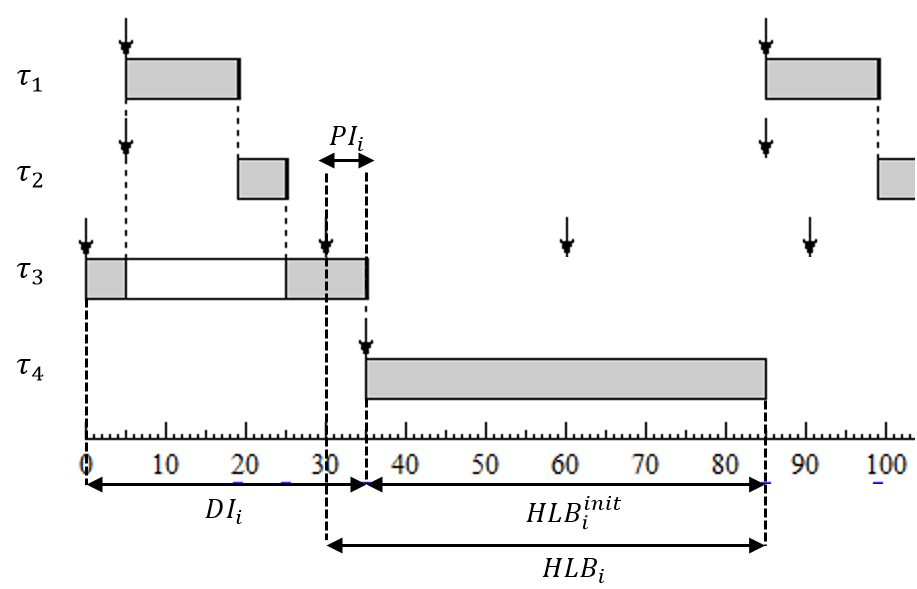
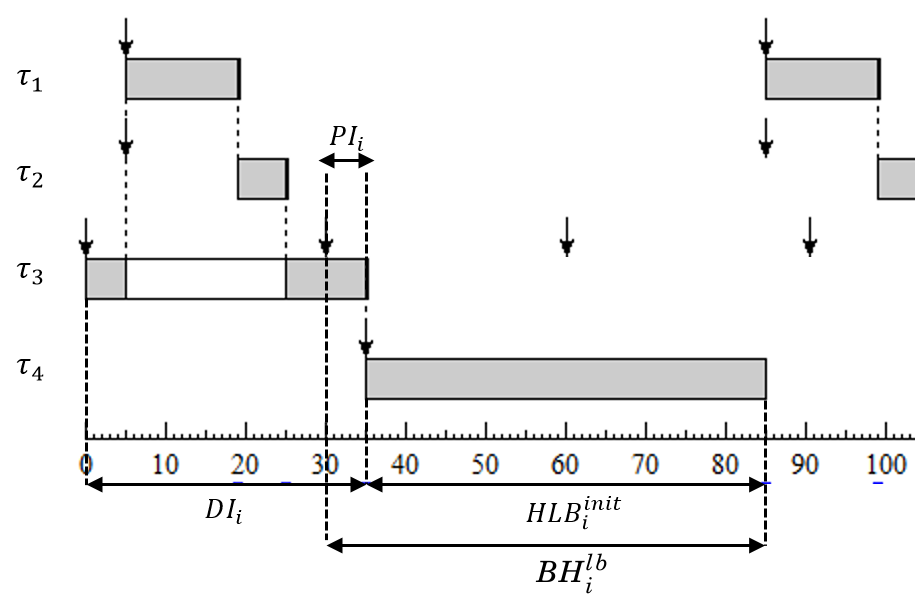
Added small changes to proofs and twoards bcrt document.

diff --git a/proofs/proofs.tex b/proofs/proofs.tex
@@ -104,7 +104,7 @@
 %\end{lemma}
 
 \begin{lemma}
-	Given a task-set $\mathpzc{T}$ of $n$ independent tasks scheduled using FPTS, and a level-$n$ busy period $[t_s,t_f]$ of such a schedule. If for a new task-set $\mathpzc{T} \cup \{\tau_{n+1}\}$, the phase of $\tau_{n+1}$ is selected in such a way that a job $k$ of $\tau_{n+1}$ is scheduled in an interval $[t_1,t_s)$, where there is an amount of time $C_{n+1}$ available for the execution of $\tau_{n+1}$, then the schedule of all jobs in $[t_s,t_f)$ remains the same after introducing $\tau_{n+1}$.
+	Given a task-set $\mathpzc{T}$ of $n$ independent tasks scheduled using FPTS, and a level-$n$ busy period $[t_s,t_f]$ of such a schedule. If for a new task-set $\mathpzc{T} \cup \{\tau_{n+1}\}$, the phase of $\tau_{n+1}$ is selected in such a way that a job $k$ of $\tau_{n+1}$ is scheduled in an interval $[t_1,t_s)$ where there is an amount of time $C_{n+1}$ available for the execution of $\tau_{n+1}$, and job $k$ does not experience blocking by previous jobs of $\tau_{n+1}$, then the schedule of all jobs in $[t_s,t_f)$ remains the same after introducing $\tau_{n+1}$.
 \end{lemma}
 
 %\begin{proof}
@@ -116,7 +116,7 @@
 \begin{proof}
 	Assume a level-$n$ busy period $[t_s,t_f]$ for task-set $\mathpzc{T}$, and also assume that task $\tau_{n+1}$ is scheduled in such a way that a job $k$ of $\tau_{n+1}$ occurs in the interval $[t_1,t_s)$ as described in Lemma 1. We now show that, under this condition, the schedule in the interval $[t_s,t_f)$ remains the same after introducing $\tau_{n+1}$.
 	
-	After introducing $\tau_{n+1}$, the schedule in $[t_s,t_f)$ can be affected by any blocking introduced by the job $k$ of $\tau_{n+1}$, by any of its previous jobs $k_{prev}$ with $k_{prev} < k$, or by any later job $k_{post}$ of $\tau_{n+1}$ with $k_{post} > k$. Since we assumed that job $k$ of $\tau_{n+1}$ occurs in $[t_1,t_s)$ and there is enough time available in this interval for its execution, then it can finalize before $t_s$ without inducing blocking to the jobs in $[t_s,t_f)$; hence, this job does not affect the schedule in $[t_s,t_f)$. Furthermore, any previous job $k_{prev}$ of $\tau_{n+1}$ should has finished before job $k$; hence, it will not affect the schedule in $[t_s,t_f)$ either. Finally, any job $k_{post}$ of $\tau_{n+1}$ should start after job $k$; however, it cannot start in the interval $[f_{n+1,k},t_f)$ because there is no idle time available for $\tau_{n+1}$. Therefore, the start time of any job $k_{post}$ of $\tau_{n+1}$ will occur after $[t_s,t_f)$, and, as a result, it will not affect the schedule in $[t_s,t_f)$.
+	After introducing $\tau_{n+1}$, the schedule in $[t_s,t_f)$ can be affected by any blocking introduced by the job $k$ of $\tau_{n+1}$, or by any later job $k_{post}$ of $\tau_{n+1}$ with $k_{post} > k$. Recall that we assumed that job $k$ of $\tau_{n+1}$ occurs in $[t_1,t_s)$, and it does not experience blocking by previous jobs; furthermore, there is enough time available in this interval for its execution. Hence, this job can finalize before $t_s$ without inducing blocking to the jobs in $[t_s,t_f)$, and therefore it will not affect the schedule in $[t_s,t_f)$. Finally, any job $k_{post}$ of $\tau_{n+1}$ should start after job $k$; however, it cannot start in the interval $[f_{n+1,k},t_f)$ because there is no idle time available for $\tau_{n+1}$. Therefore, the start time of any job $k_{post}$ of $\tau_{n+1}$ will be after or at time $t_f$. As a result, it will not affect the schedule in $[t_s,t_f)$.
 \end{proof}
 
 %\begin{lemma}
@@ -124,7 +124,7 @@
 %\end{lemma}
 
 \begin{lemma}
-	Given a task-set $\mathpzc{T}$ of $n$ independent tasks scheduled under FPTS, a level-$n$ busy period $[t_s,t_f]$ of such a schedule, and a new task-set $\mathpzc{T} \cup \{\tau_{n+1}\}$ where $U^{\mathpzc{T} \cup \tau_{n+1}}<1$ or $U^{\mathpzc{T} \cup \tau_{n+1}} = 1$ and the lcm of the periods exists. It is always possible for task-set $\mathpzc{T} \cup \{\tau_{n+1}\}$ to select the phase of $\tau_{n+1}$ in such a way that a job $k$ of $\tau_{n+1}$ is scheduled in an interval $[t_1,t_s)$, where there is an amount of time $C_{n+1}$ available for the execution of $\tau_{n+1}$.
+	Given a task-set $\mathpzc{T}$ of $n$ independent tasks scheduled under FPTS, a level-$n$ busy period $[t_s,t_f]$ of such a schedule, and a new task-set $\mathpzc{T} \cup \{\tau_{n+1}\}$ where $U^{\mathpzc{T} \cup \tau_{n+1}}<1$ or $U^{\mathpzc{T} \cup \tau_{n+1}} = 1$ and the lcm of the periods exists. It is always possible for task-set $\mathpzc{T} \cup \{\tau_{n+1}\}$ to select the phase of $\tau_{n+1}$ in such a way that a job $k$ of $\tau_{n+1}$ is scheduled in an interval $[t_1,t_s)$ where there is an amount of time $C_{n+1}$ available for the execution of $\tau_{n+1}$, and job $k$ does not experience blocking by previous jobs of $\tau_{n+1}$.
 \end{lemma}
 
 \begin{proof}
@@ -140,7 +140,7 @@
 \end{lemma}
 
 \begin{proof}
-	Assume that we find a schedule for a subset of task-set $\mathpzc{T}$ defined as $\mathpzc{T}_i = \{\tau_a | a \leq i, \tau_a \in \mathpzc{T}\}$ where the \textit{best-case response time} $BR_i$ of $\tau_i$ is assumed by job $k^{bcrt}$ in the level-$i$ busy period $[t_{s},t_{f}]$. Note that task-set $\mathpzc{T}_i$ contains the same tasks as $\mathpzc{T}$ without the lower priority tasks of $\tau_i$. Given Lemmas 1 and 2, we can construct a schedule for a task-set $\mathpzc{T}_{i+1}$ where task $\tau_{i+1}$ is scheduled in such a way that a job $k$ occurs in a contingent time interval $[t_1, t_s)$ before $[t_s,t_f)$. Hence, the schedule in time interval $[t_s,t_f)$ will remain unchanged and the \textit{best-case response time} $BR_i$ of $\tau_i$ will remain the same in $\mathpzc{T}_{i+1}$. Furthermore, note that since job $k$ of $\tau_{i+1}$ occurs in a contingent time interval $[t_1, t_s)$ before $[t_s,t_f)$, these two time intervals are contained in the level-$\{i+1\}$ busy period $[t\prime_s,t\prime_f]$; hence, job $k^{bcrt}$ of $\tau_i$ occurs in $[t\prime_s,t\prime_f]$ as well. Based on this observation and using Lemmas 1 and 2 again, we can find a schedule for a task-set $\mathpzc{T}_{i+2}$ where the jobs in the  level-$\{i+1\}$ busy period $[t\prime_s,t\prime_f]$ remain unchanged and, therefore, $BR_i$ is preserved. Since we can continue constructing schedules preserving the \textit{best-case response time} of $\tau_i$ until $\mathpzc{T}_{i+l} = \mathpzc{T}$, we conclude that the \textit{best-case response time} $BR_i$ of a task $\tau_i$ is not affected by its lower priority tasks.
+	Assume that we find a schedule for a subset of task-set $\mathpzc{T}$ defined as $\mathpzc{T}_i = \{\tau_a | a \leq i, \tau_a \in \mathpzc{T}\}$ where the \textit{best-case response time} $BR_i$ of $\tau_i$ is assumed by job $k^{bcrt}$ in the level-$i$ busy period $[t_{s},t_{f}]$. Note that task-set $\mathpzc{T}_i$ contains the same tasks as $\mathpzc{T}$ without the lower priority tasks of $\tau_i$. Given lemmas 1 and 2, we can construct a schedule for a task-set $\mathpzc{T}_{i+1}$ where task $\tau_{i+1}$ is scheduled in such a way that a job $k$ occurs in a contingent time interval $[t_1, t_s)$ before $[t_s,t_f)$. Hence, the schedule in time interval $[t_s,t_f)$ will remain unchanged and the \textit{best-case response time} $BR_i$ of $\tau_i$ will remain the same in $\mathpzc{T}_{i+1}$. Furthermore, note that since job $k$ of $\tau_{i+1}$ occurs in a contingent time interval $[t_1, t_s)$ before $[t_s,t_f)$, these two time intervals are contained in the level-$\{i+1\}$ busy period $[t\prime_s,t\prime_f]$; hence, job $k^{bcrt}$ of $\tau_i$ occurs in $[t\prime_s,t\prime_f]$ as well. Based on this observation and using lemmas 1 and 2 again, we can find a schedule for a task-set $\mathpzc{T}_{i+2}$ where the jobs in the  level-$\{i+1\}$ busy period $[t\prime_s,t\prime_f]$ remain unchanged and, therefore, $BR_i$ is preserved. Since we can continue constructing schedules preserving the \textit{best-case response time} of $\tau_i$ until $\mathpzc{T}_{i+l} = \mathpzc{T}$, we conclude that the \textit{best-case response time} $BR_i$ of a task $\tau_i$ is not affected by its lower priority tasks.
 \end{proof}
 
 %\begin{proof}
@@ -163,126 +163,7 @@
 
 \begin{thebibliography}{10}
 	
-	\bibitem{WS99}
-	Y. Wang, and M. Saksena.
-	Scheduling fixed-priority tasks with preemption thresholds.
-	In Proc. 6th International Conference on Real-Time Computing Systems and Applications (RTCSA), December 1999.	
-	
-	\bibitem{BHKL12}
-	R.J. Bril, M. van den Heuvel, U. Keskin, and J. Lukkien.
-	Generalized fixed-priority scheduling with preemption thresholds.
-	In Proc. 24th Euromicro Conference on Real-Time Systems (ECRTS), July 2012.
-	
-	\bibitem{BHL13}
-	R.J. Bril, M.M.H.P. v.d. Heuvel, and J.J. Lukkien.
-	Improved feasibility of fixed-priority scheduling with deferred preemption using preemption thresholds for preemption points.
-	In Proc. 21st International Conference on Real-Time Networks and Systems (RTNS), ACM, pp. 225-264, October 2013.
-	
-	\bibitem{BFV08}
-	R.J. Bril, G. Fohler, and W.F.J. Verhaegh. 
-	Execution times and execution jitter of real-time tasks under fixed-priority preemptive scheduling. 
-	Technical Report CSR 08-27, TU/e, The Netherlands, Oct. 2008. \url{http://www.win.tue.nl/~mholende/cantata/publications/BCG-WiP-ECRTS09-final.pdf}
-	
-	\bibitem{BLM13}
-	R.J. Bril, J.J. Lukkien, and R.H. Mak.
-	Best-case response times and jitter analysis of real-time tasks with arbitrary deadlines.
-	In Proc. 21st International Conference on Real-Time Networks and Systems (RTNS), ACM, pp. 193-202, October 2013.
-	
-	\bibitem{C99}
-	A. Cervin. 
-	Improved Scheduling of Control Tasks.
-	In Proc. 11th Euromicro Conference on Real-Time Systems (ECRTS), York, England, pp 4 - 10, 09 Jun 1999. 
-	
-	\bibitem{CRA99} 
-	A. Crespo, I. Ripoll, and P. Albertos. 
-	Reducing Delays in RT Control: The Control Action Interval. 
-	In 14th IFAC World Congress on Automatic Control. Elsevier Science. p. 0. 1999.
-	
-	\bibitem{BC07} 
-	G. Butazzo and A. Cervin. 
-	Comparative Assessment and Evaluation of Jitter Control Methods. 
-	In Proc. 15th International Conference on Real-Time and Network Systems (RTNS), Nancy, France, March 29-30, 2007.
-	
-	\bibitem{LCBRC06}
-	M. Lluesma, A. Cervin, P. Balbastre, I. Ripoll, and A. Crespo.
-	Jitter evaluation of real-time control systems.
-	In Proceedings of the 12th IEEE International Conference on Embedded and Real-Time Computing Systems and Applications, 2006, pp. 257-260.
-	
-	\bibitem{THLT06}
-	Y. Tian, Q. Han, D. Levy, and M. Tade. 
-	Reducing Control Latency and Jitter in Real-Time Control.
-	Asian Journal of Control, Vol. 8, No. 1, pp. 72-75, March 2006.
-	
-	\bibitem{BRVC04}
-	P. Balbastre, I. Ripoll, J. Vidal, and A. Crespo.
-	A task model to reduce control delays.
-	Real-Time Syst., vol. 27, no. 3, pp. 215-236, Sep. 2004.
-	
-	\bibitem{BBGL99}
-	S. Baruah, G. Buttazzo, S. Gorinsky, and G. Lipari. 
-	Scheduling periodic task systems to minimize output jitter. 
-	In Proc. International Conference on Real-Time Computing Systems and 
-	Applications, pages 62-69, Hong Kong, December 1999.
-	
-	\bibitem{HHL10}
-	S. Hong, X. Hu, and M. Lemmon.
-	Reducing delay jitter of real-time control tasks through adaptive deadline adjustments.
-	In Euromicro Conference on Real-Time Systems (ECRTS), 2010, pp. 229-238.
-	
-	\bibitem{MVFF01}
-	P. Marti, R. Villa, J.M. Fuertes, G. Fohler. 
-	On Real-Time Control Task Schedulability. 
-	In European Control Conference (ECC), Porto, Portugal, 4-7 September 2001.
-	
-	\bibitem{MFFR01}
-	P. Marti, J.M. Fuertes, G. Fohler, and K. Ramamritham. 
-	Jitter Compensation for Real-Time Control System. 
-	In Proceedings of the 22nd IEEE Real-Time Systems Symposium, pp 39-48, 2001.
-	
-	\bibitem{MFF01}
-	P. Marti, J.M. Fuertes, G. Fohler. 
-	Sampling Jitter Compensation in Real-time Control Systems. 
-	In Proceedings of the 22nd IEEE Real-Time Systems Symposium (RTSS 2001), 
-	London, UK, 2-6 December 2001.
-	
-	\bibitem{WB09}
-	Y. Wu and M. Bertogna.
-	Improving task responsiveness with limited preemptions.
-	In Proc. 14th IEEE Int. Conf. Emerging Technol. Factory Autom. (ETFA 2009), 
-	Mallorca, Spain, Sep. 2009.
-	
-	\bibitem{L90}
-	J.P. Lehoczky.
-	Fixed Priority Scheduling of Periodic Task Sets with Arbitrary Deadline.
-	In Proceeding of the 11th IEEE Real-Time System Symposium (RTSS 1990), pp 201-209, December 1990.
-	
-	\bibitem{HKL91}
-	M. G. Harbour, M. H. Klein, and J. P. Lehoczky. 
-	Fixed priority scheduling periodic tasks with varying execution priority.
-	Real-Time Systems Symposium, pages 116-128, December 1991.
-	
-	\bibitem{LL73}
-	C. Liu and J. Layland.
-	Scheduling algorithms for multiprogramming in a real-time environment.
-	In Journal of the ACM, vol. 20, no. 1, pp. 46-61, January 1973.	
-	
-	\bibitem{KBL10}
-	U. Keskin, R.J. Bril and J. Luikkien.
-	Exact response-time analysis for fixed-priority preemption-threshold scheduling.
-	In Proc. IEEE Conference on Emerging Technologies and Factory Automation (ETFA), Working-Progress Session, September 2010.
-	
-	\bibitem{BAHDB17}
-	R.J. Bril, S. Altmeyer, M.M.H.P. van den Heuvel, R.I. Davis, and M. Behnam.
-	Fixed priority scheduling with pre-emption thresholds and cache-related pre-emption delays: integrated analysis and evaluation.
-	In Real-Time Systems, 31 January 2017.	
-	doi:10.1007/s11241-016-9266-z
-	
-	\bibitem{GRASP}
-	Mike Holenderski, Martijn M. H. P. van den Heuvel, Reinder J. Bril and Johan J. Lukkien.
-	Grasp: Tracing, Visualizing and Measuring the Behavior of Real-Time Systems.
-	In International Workshop on Analysis Tools and Methodologies for Embedded and Real-time Systems (WATERS), July 2010.
-	
-	
+
 \end{thebibliography}
 \end{document}
 

diff --git a/towars_bcrt/towars_bcrt_for_FPTS.tex b/towars_bcrt/towars_bcrt_for_FPTS.tex
@@ -197,17 +197,18 @@ Consider the task-set $\mathpzc{T}_{\ref{tab:taskset3}}$ presented in Table \ref
 	\center
 	\caption{Task set $\mathpzc{T}_{\ref{tab:taskset3}}$.}
 	\label{tab:taskset3}
-	\begin{tabular}{c c c c c | c c}
+	\begin{tabular}{c c c c c | c c c c c c c}
 		\hline 
-		& $T_i$ & $WC_i=BC_i$ & $\pi_i$ & $\theta_i$ &  $wl_i$ & $BR_i$\\ 
+		& $T_i$ & $WC_i=BC_i$ & $\pi_i$ & $\theta_i$ &  $wl_i$ & $WR^{\rm T}_i$ & $BR^{\rm T}_i$ & $RJ^{\rm T}_i$ &  $WR^{\rm P}_i$ & $BR^{\rm P}_i$ & $RJ^{\rm P}_i$\\ 
 		\hline 
-		$\tau_1$& 80  & 20  & 3 & 3 &  1 & 20\\ 
-		$\tau_2$& 30  & 15  & 2 & 2 &  2 & 15\\ 
-		$\tau_3$& 240 & 50  & 1 & 2 &  1 & 70\\ 
+		$\tau_1$& 80  & 20  & 3 & 3 &  1 & 20 & 20  & 0  & 20  & 20  & 0\\ 
+		$\tau_2$& 30  & 15  & 2 & 2 &  8 & 104 & 15 & 89 & 35  & 15  & 20\\ 
+		$\tau_3$& 240 & 50  & 1 & 2 &  1 & 120 & 70 & 50 & 230 & 165 & 65\\ 
 		\hline 
 	\end{tabular}
+
 	\small
-	\item The \textit{least common multiple} of the periods is 240 and $U^{\mathpzc{T_{\ref{tab:taskset2}}}} \approx 0.96$.
+	\item The \textit{least common multiple} of the periods is 240 and $U^{\mathpzc{T_{\ref{tab:taskset3}}}} \approx 0.96$.
 \end{table} 
 
 \begin{figure}[H]
@@ -292,11 +293,11 @@ where the notion $w^+$ stands for $\max(w,0)$.
 		\hline
 		$HLB^{init}_i$& Initial lower bound. This is the \textit{best-case hold time} of task $\tau_i$ when considering only preemptive tasks.\\
 		\hline
-		$LB_i$& Lower bound of the \textit{best-case hold time} if $\tau_i$; $BH_i > LB_i.$\\
+		$BH^{lb}_i$& Lower bound of the \textit{best-case hold time} of $\tau_i$; $BH_i \geq BH^{lb}_i.$\\
 		\hline
 		$UB_i$& Upper bound in hold time when pushing the activation of delaying tasks. \\ 
 		\hline
-		$PI_i$ & Push interval of delaying tasks relative to $LB_i$.   \\ 
+		$PI_i$ & Push interval of delaying tasks relative to $BH^{lb}_i$.   \\ 
 		\hline
 		$DI_i$ & Delay interval of task $\tau_i$ is the time interval in which delaying tasks can affect the hold time.\\
 		\hline 
@@ -308,26 +309,44 @@ where the notion $w^+$ stands for $\max(w,0)$.
 \begin{algorithm}[H]
 	\caption{Algorithm to derive a tighter lower bound for the \textit{best-case hold time} of task $\tau_i$.}\label{euclid}
 	\begin{algorithmic}[1]
-		\Procedure{\textit{HLB}$_i$}{$\mathpzc{T}$}
+		\Procedure{\textit{bchtLowerBound}}{$\mathpzc{T},i$}
 		\State $HLB^{init}_i = BI_i(BC_i,\infty)$;
-		\State $PI_i = -\delta$;
-		\State $LB_i = HLB^{init}_i + PI_i$;
-		\State $UB_i = BI_i(BC_i,LB_i)$;
-		\If {$UB_i > HLB^{init}_i$}
-		\State $LB_i = HLB^{init}_i$;
-		\EndIf {\textbf{end if}}
+		\State $BH^{lb}_i = HLB^{init}_i$;
+		\State $UB_i = BI_i(BC_i,BH^{lb}_i)$;
 		\While {$UB_i > HLB^{init}_i$}
-		\State $DI_i = UB_i - LB_i$;
+		\State $DI_i = UB_i - BH^{lb}_i$;
 		\State $PI_i = \min \limits_{d:\theta_i \geq \pi_d > \pi_i} (DI_i \mod T_d);$
-		\State $LB_i = LB_i + PI_i$;
-		\State $UB_i = BI_i(BC_i,LB_i)$;
+		\State $BH^{lb}_i = BH^{lb}_i + PI_i$;
+		\State $UB_i = BI_i(BC_i,BH^{lb}_i)$;
 		\EndWhile{\textbf{end while}}
-		\State \Return $LB_i$; 
+		\State \Return $BH^{lb}_i$; 
 		\EndProcedure
 	\end{algorithmic}
 \end{algorithm}
 
-In order to illustrate how the algorithm works, consider the task-set $\mathpzc{T}_{\ref{tab:taskset5}}$ described in Table \ref{tab:taskset5}. Figure \ref{fig:bcht_1} shows the notions after performing Algorithm 1 to calculate $HLB_4=55$. Note that in Figure \ref{fig:bcht_1}, the second job of $\tau_3$ activated at time $t=30$, namely $\iota_{3,2}$, does not start. This is to illustrate that the \textit{best-case hold time} of $\tau_4$ should be long enough in order to delay the start time of $\iota_{3,2}$, i.e. $BH_4 > HLB_4$. If this condition is not met, the job $\iota_{3,2}$ will start and delay the start time of $\tau_4$. As a consequence, the job of $\tau_4$ will experience preemptions by the higher priority tasks activated at time $t=85$.
+%\begin{algorithm}[H]
+%	\caption{Algorithm to derive a tighter lower bound for the \textit{best-case hold time} of task $\tau_i$.}\label{euclid}
+%	\begin{algorithmic}[1]
+%		\Procedure{\textit{HLB}$_i$}{$\mathpzc{T}$}
+%		\State $HLB^{init}_i = BI_i(BC_i,\infty)$;
+%		\State $PI_i = -\delta$;
+%		\State $LB_i = HLB^{init}_i + PI_i$;
+%		\State $UB_i = BI_i(BC_i,LB_i)$;
+%		\If {$UB_i > HLB^{init}_i$}
+%		\State $LB_i = HLB^{init}_i$;
+%		\EndIf {\textbf{end if}}
+%		\While {$UB_i > HLB^{init}_i$}
+%		\State $DI_i = UB_i - LB_i$;
+%		\State $PI_i = \min \limits_{d:\theta_i \geq \pi_d > \pi_i} (DI_i \mod T_d);$
+%		\State $LB_i = LB_i + PI_i$;
+%		\State $UB_i = BI_i(BC_i,LB_i)$;
+%		\EndWhile{\textbf{end while}}
+%		\State \Return $LB_i$; 
+%		\EndProcedure
+%	\end{algorithmic}
+%\end{algorithm}
+
+In order to illustrate how the algorithm works, consider the task-set $\mathpzc{T}_{\ref{tab:taskset5}}$ described in Table \ref{tab:taskset5}. Figure \ref{fig:bcht_1} shows the notions after performing Algorithm 1 to calculate $BH^{lb}_4=55$. Note that in Figure \ref{fig:bcht_1}, the second job of $\tau_3$ activated at time $t=30$, namely $\iota_{3,2}$, does not start. This is to illustrate that the \textit{best-case hold time} of $\tau_4$ should be long enough in order to delay the start time of $\iota_{3,2}$, i.e. $BH_4 > BH^{lb}_4$. If this condition is not met, the job $\iota_{3,2}$ will start and delay the start time of $\tau_4$. As a consequence, the job of $\tau_4$ will experience preemptions by the higher priority tasks activated at time $t=85$.
 
 \begin{table}[H]
 	\center
@@ -335,7 +354,7 @@ In order to illustrate how the algorithm works, consider the task-set $\mathpzc{
 	\label{tab:taskset5}
 	\begin{tabular}{c c c c c | c c c c}
 		\hline 
-		& $T_i$ & $WC_i=BC_i$ & $\pi_i$ & $\theta_i$ &  $wl_i$ & $BR_i$ & $HLB_i$ & $HLB^{init}_i$\\ 
+		& $T_i$ & $WC_i=BC_i$ & $\pi_i$ & $\theta_i$ &  $wl_i$ & $BR_i$ & $BH^{lb}_i$ & $HLB^{init}_i$\\ 
 		\hline 
 		$\tau_1$& 80  & 14  & 4 & 4 &  1 & 14 & &\\
 		$\tau_2$& 80  & 6   & 3 & 3 &  1 & 6  & &\\ 
@@ -354,7 +373,7 @@ In order to illustrate how the algorithm works, consider the task-set $\mathpzc{
 	\label{fig:bcht_1}
 \end{figure}
 
-Note that the only way for the job of task $\tau_4$ to have a hold time higher than $HLB_4=55$ is by experiencing preemption by either task $\tau_1$, $\tau_2$ or both. Since $\tau_2$ has a \textit{best-case execution time} $BC_2=6$, we can choose this task to preempt $\tau_4$ and the condition will be met because $HLB^{init}_i+BC_2= 56$ which is higher than $HLB_i = 55$. This is indeed the \textit{best-case hold time} because if we would choose $\tau_1$ to preempt $\tau_4$, the resulting hold time would be $HLB^{init}_i+BC_1= 64$. Figure \ref{fig:bcht_2} shows the schedule where the \textit{best-case hold time} for task $\tau_4$ is assumed.
+Note that the only way for the job of task $\tau_4$ to have a hold time higher than $BH^{lb}_4=55$ is by experiencing preemption by either task $\tau_1$, $\tau_2$ or both. Since $\tau_2$ has a \textit{best-case execution time} $BC_2=6$, we can choose this task to preempt $\tau_4$ and the condition will be met because $HLB^{init}_4+BC_2= 56$ which is higher than $BH^{lb}_4 = 55$. This is indeed the \textit{best-case hold time} because if we would choose $\tau_1$ to preempt $\tau_4$, the resulting hold time would be $HLB^{init}_4+BC_1= 64$. Figure \ref{fig:bcht_2} shows the schedule where the \textit{best-case hold time} of task $\tau_4$ is assumed.
 
 \begin{figure}[H]
 	\centering
@@ -364,7 +383,7 @@ Note that the only way for the job of task $\tau_4$ to have a hold time higher t
 \end{figure}
 
 \section{BCRT lower bound for FPTS}
-Given a task-set $\mathpzc{T}$ of strictly periodic tasks, Algorithm 2 shows a procedure to derive a lower bound for the \textit{best-case response time} of a task $\tau_i$. The algorithm first determine a lower bound for the hold time and the activation $AD_i$ of the delaying tasks of $\tau_i$ is set to this value in Line 2. In Line 3, the $BR^{lb}_i$ is initialized with some upper bound. A lower bound candidate is derived in Line 5 using a similar approach as for the \textit{best-case response time} analysis for FPPS. The purpose of the outer max is to make sure that $BR^{lb}_i$ is at least the same as the activation of delaying tasks $AD_i$. In case that $BR^{lb}_i$ is higher than $AD_i$, Lines 7 to 9 push the activation for the delaying tasks in order to allow to reduce $BR^{lb}_i$ in the next iteration. More precisely, the job $k^{tight}$ of task $\tau_i$ that induces some delay on the start time of the job experiencing the optimal instant is determined in Line 7. Moreover, Lines 8 and 9 determine the time the activation of delaying tasks should be pushed at an earlier moment, to prevent job $k^{tight}$ from inducing some blocking. At this point, if the new value of $AD_i$ exceeds the current $BR^{lb}_i$, then it is not beneficial to push the activation of delaying tasks to reduce the \textit{best-case response time}; hence, the algorithm terminates.
+Given a task-set $\mathpzc{T}$ of strictly periodic tasks, Algorithm 2 shows a procedure to derive a lower bound for the \textit{best-case response time} of a task $\tau_i$. The algorithm first determines a lower bound for the hold time and the activation $AD_i$ of the delaying tasks of $\tau_i$ is set to this value in line 2. In line 3, the $BR^{lb}_i$ is initialized with some upper bound. A lower bound candidate is derived in line 5 using a similar approach as for the \textit{best-case response time} analysis for FPPS. The purpose of the outer max is to make sure that $BR^{lb}_i$ is at least the same as the activation of delaying tasks $AD_i$. In case that $BR^{lb}_i$ is higher than $AD_i$, lines 7 to 9 push the activation for the delaying tasks in order to allow to reduce $BR^{lb}_i$ in the next iteration. More precisely, the job $k^{tight}$ of task $\tau_i$ that induces some delay on the start time of the job experiencing the optimal instant is determined in line 7. Moreover, lines 8 and 9 determine the time the activation of delaying tasks should be pushed at an earlier moment in order to prevent job $k^{tight}$ from inducing some blocking. At this point, if the new value of $AD_i$ exceeds the current $BR^{lb}_i$, then it is not beneficial to push the activation of delaying tasks to reduce the \textit{best-case response time}; hence, the algorithm terminates.
 
 \begin{table}[H]
 	\center
@@ -377,7 +396,7 @@ Given a task-set $\mathpzc{T}$ of strictly periodic tasks, Algorithm 2 shows a p
 		\hline
 		$AD_i$& Activation of delaying tasks relative to the optimal instant.\\
 		\hline
-		$DI_i$& Time interval from the activation of job $k$ of $\tau_i$ that provokes a delay on the start time of the job experiencing the optimal instant to the activation of delaying tasks.\\
+		$DI_i$& Time interval between the activation of delaying tasks and the activation of job $k$ of $\tau_i$ that provokes a delay on the start time of the job experiencing the optimal instant.\\
 		\hline 
 	\end{tabular}
 	%\small
@@ -388,7 +407,7 @@ Given a task-set $\mathpzc{T}$ of strictly periodic tasks, Algorithm 2 shows a p
 	\caption{Algorithm to derive a lower bound for the \textit{best-case response time} of task $\tau_i$.}\label{euclid}
 	\begin{algorithmic}[1]
 		\Procedure{\textit{bcrtLowerBound}}{$\mathpzc{T}$,$i$}
-		\State $AD_i \gets HLB(\mathpzc{T},i)$;
+		\State $AD_i \gets bchtLowerBound(\mathpzc{T},i)$;
 		\State $BR^{lb}_i \gets \infty$;
 		\While {$BR^{lb}_i > AD_i$}
 		\State $BR^{lb}_i \gets \max\{ AD_i, \max \limits_{2 \leq k \leq wl_i} (BI_i(k \cdot BC_i, AD_i) - (k-1)T_i) \}$;
